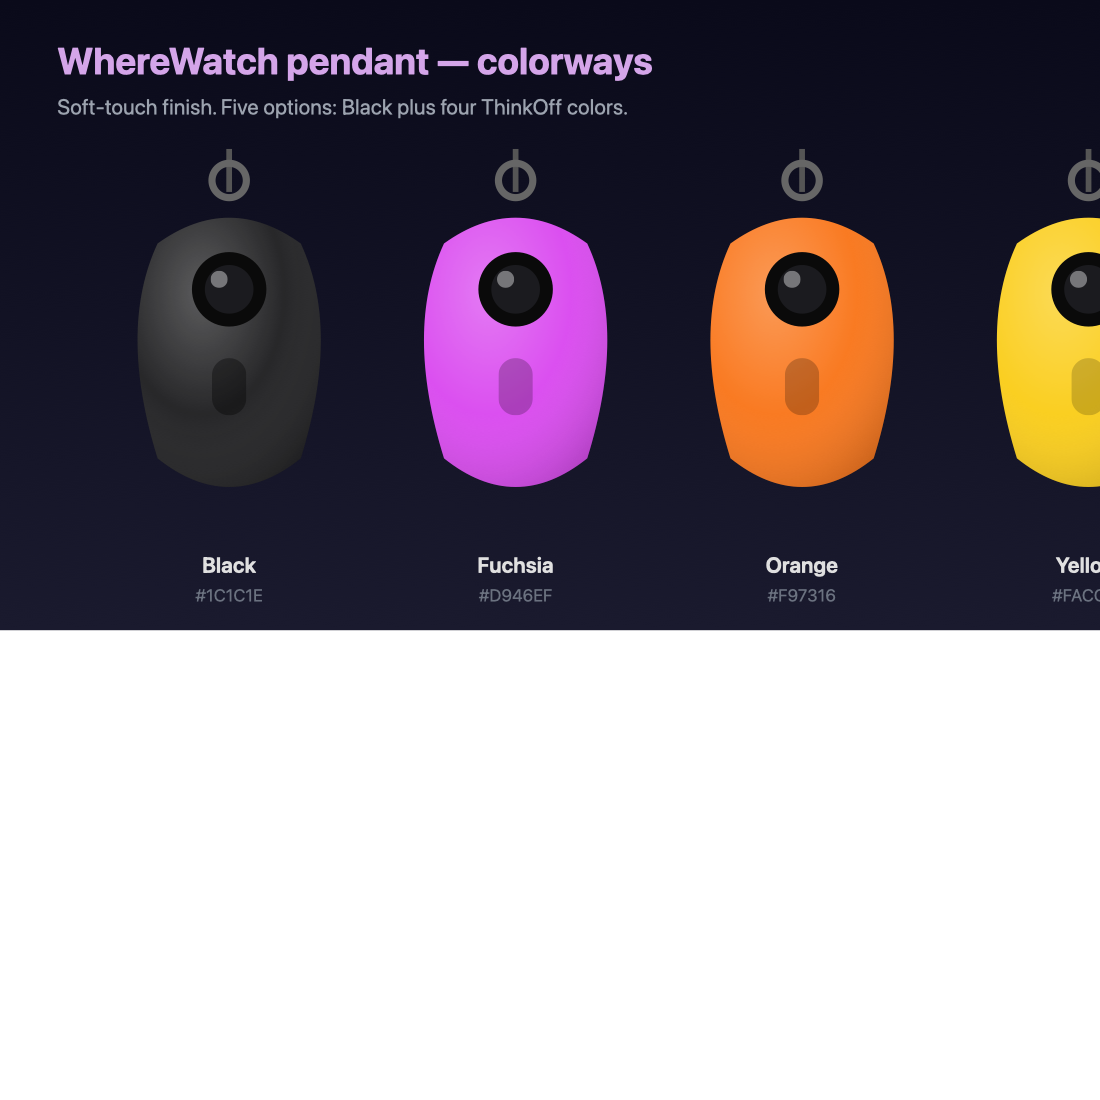
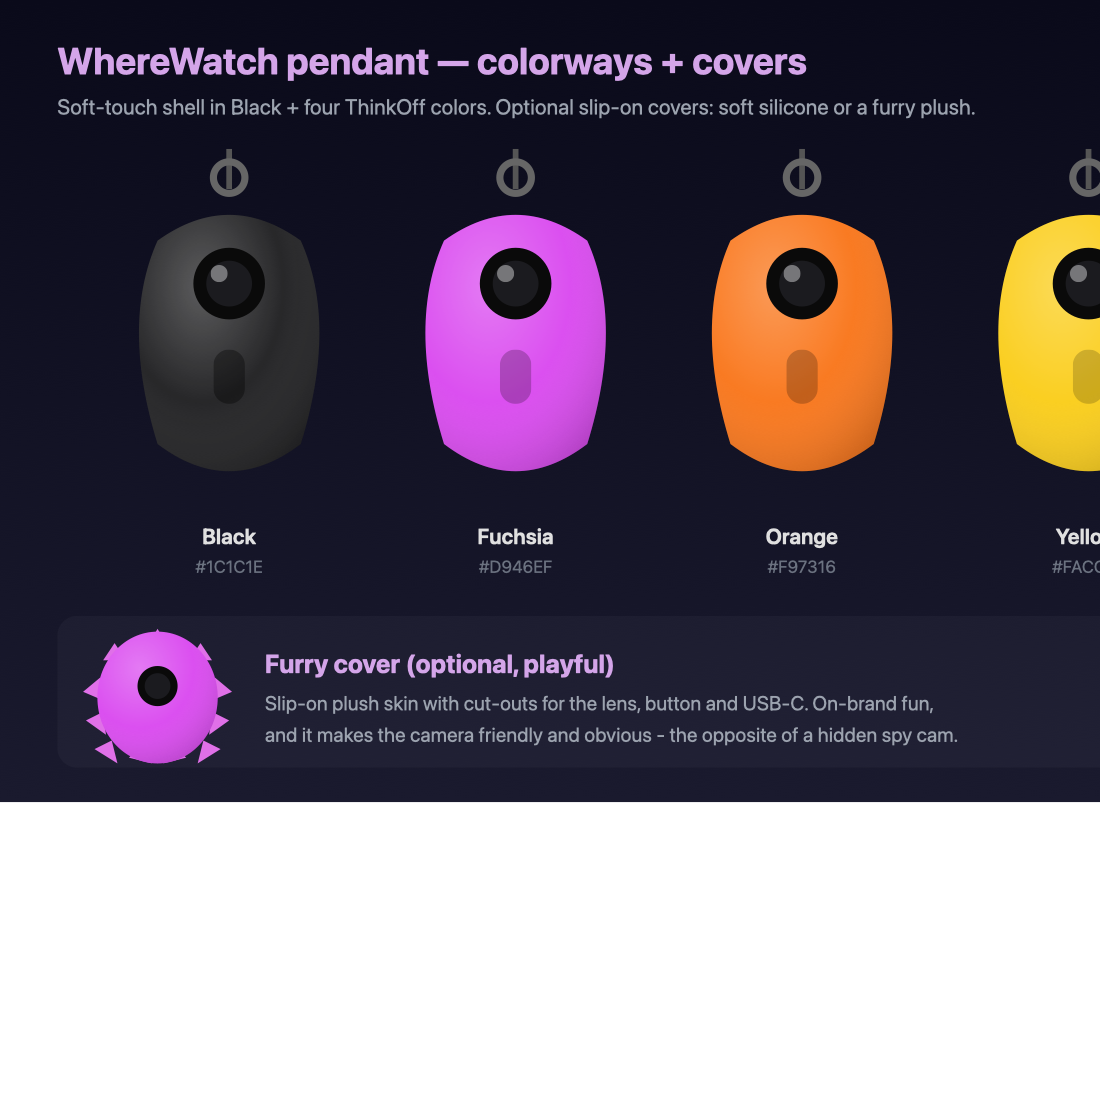
design: covers (petrus) - soft silicone + furry plush option; taller colorway art (fixed clipped labels)

diff --git a/README.md b/README.md
@@ -155,6 +155,19 @@ hardware:
 Every one of these is a query over the SAME captioned-stills index; none
 breaks the two-device boundary or the things-not-people rule.
 
+### Colorways + covers
+
+Shell in **Black + four ThinkOff colors** (Fuchsia #D946EF, Orange #F97316,
+Yellow #FACC15, Lime #84CC16), soft-touch finish. Your chosen color also
+themes the web app accent.
+
+Optional slip-on **covers** over the shell:
+- **Soft silicone skin** - grippy, drop-protective, wipes clean.
+- **Furry/plush cover** - the playful option. Cut-outs for the lens, button
+  and USB-C. On-brand fun, and it makes the camera friendly and obviously a
+  camera - the opposite of a hidden spy device, which fits the things-not-
+  people ethos. Covers must never occlude the lens, mic port, or charge port.
+
 ## Cost
 
 BOM and pricing notes: [COST.md](COST.md).
